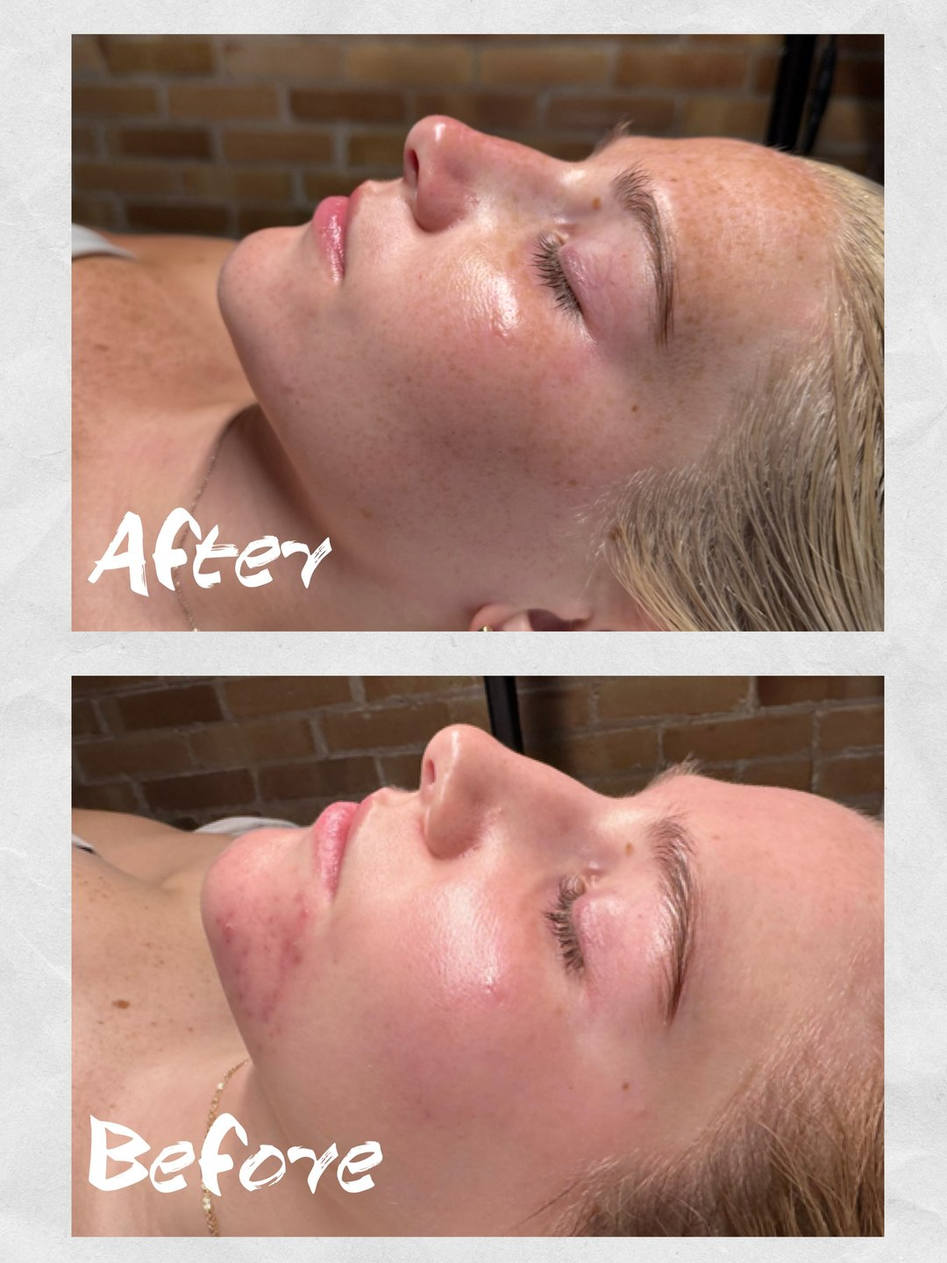
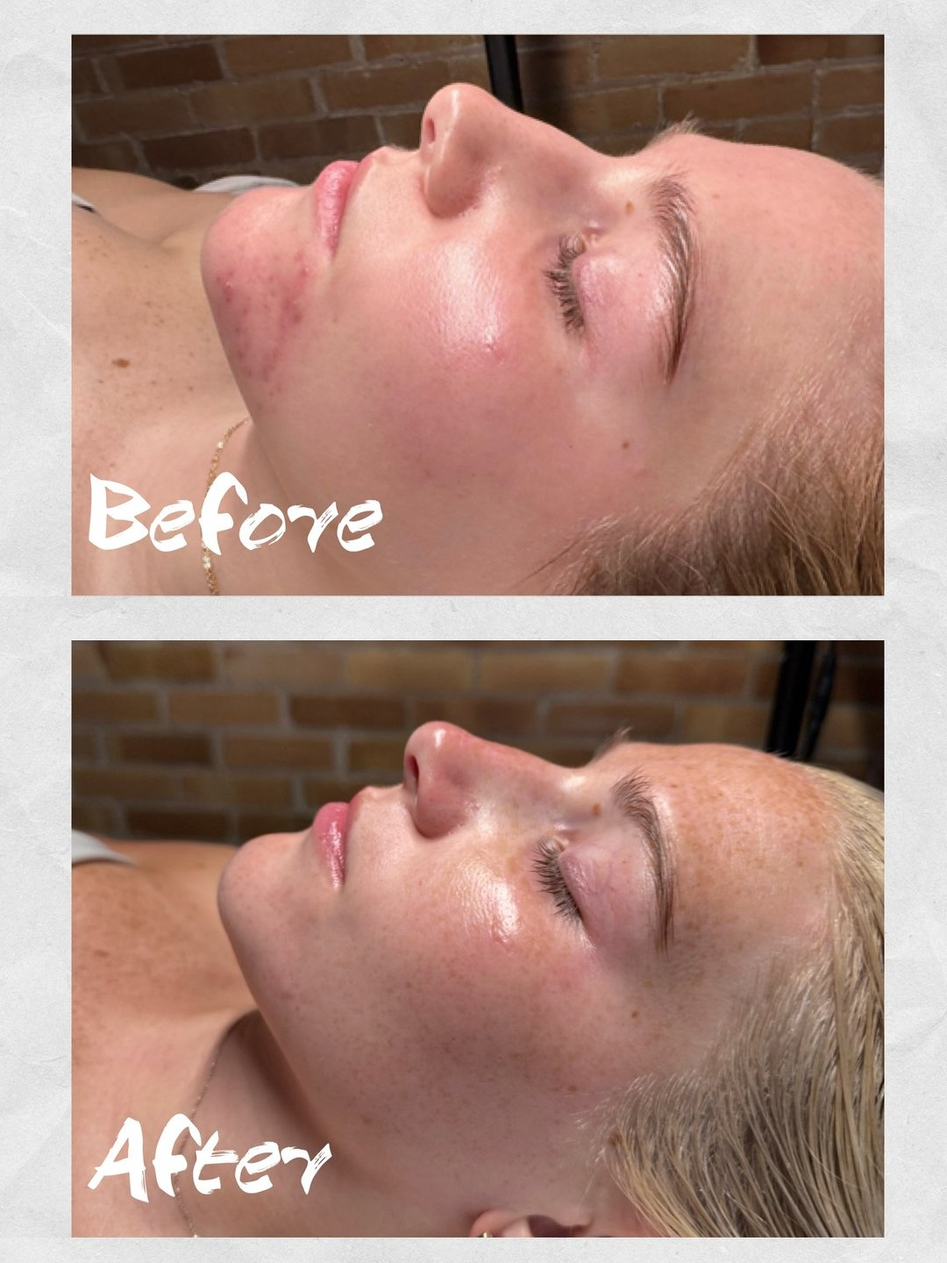
v2: put Before above After on the acne results photo

diff --git a/v2/facial-treatments.html b/v2/facial-treatments.html
@@ -28,7 +28,7 @@
 </div></section><section class="menu-s"><div class="wrap pmenu"><div class="pcol"><div class="pstick mask"><div class="pf on" data-f="0"><img src="../img/face-closeup.jpg" srcset="../img/face-closeup-480.webp 480w, ../img/face-closeup-800.webp 800w, ../img/face-closeup-1200.webp 1200w, ../img/face-closeup-1600.webp 1600w, ../img/face-closeup-2000.webp 2000w" sizes="(max-width:980px) 1px, 40vw" width="2000" height="957" alt="Close-up of freshly exfoliated skin" decoding="async" loading="eager" style="object-position:50% 40%"></div><div class="pf" data-f="1"><img src="../img/facial-brush.jpg" srcset="../img/facial-brush-480.webp 480w, ../img/facial-brush-800.webp 800w, ../img/facial-brush-1200.webp 1200w, ../img/facial-brush-1556.webp 1556w" sizes="(max-width:980px) 1px, 40vw" width="1556" height="2067" alt="Mask brush and bowl" decoding="async" loading="eager" style="object-position:50% 35%"></div><div class="pf" data-f="2"><img src="../img/wrist.jpg" srcset="../img/wrist-480.webp 480w, ../img/wrist-800.webp 800w, ../img/wrist-1200.webp 1200w, ../img/wrist-1556.webp 1556w" sizes="(max-width:980px) 1px, 40vw" width="1556" height="2067" alt="Moisturizer swatch on a wrist" decoding="async" loading="eager" style="object-position:50% 50%"></div><div class="pf" data-f="3"><img src="../img/products-arch.jpg" srcset="../img/products-arch-480.webp 480w, ../img/products-arch-800.webp 800w, ../img/products-arch-1200.webp 1200w, ../img/products-arch-1555.webp 1555w" sizes="(max-width:980px) 1px, 40vw" width="1555" height="2208" alt="Face Reality skincare products" decoding="async" loading="eager" style="object-position:50% 50%"></div><div class="pf" data-f="4"><img src="../img/products-held.jpg" srcset="../img/products-held-480.webp 480w, ../img/products-held-800.webp 800w, ../img/products-held-1200.webp 1200w, ../img/products-held-1600.webp 1600w, ../img/products-held-2000.webp 2000w" sizes="(max-width:980px) 1px, 40vw" width="2000" height="1196" alt="Madison holding Face Reality products" decoding="async" loading="eager" style="object-position:50% 35%"></div></div></div><div class="plist"><div class="prow" data-f="0"><div class="pi mask zoom"><img src="../img/face-closeup.jpg" srcset="../img/face-closeup-480.webp 480w, ../img/face-closeup-800.webp 800w, ../img/face-closeup-1200.webp 1200w, ../img/face-closeup-1600.webp 1600w, ../img/face-closeup-2000.webp 2000w" sizes="100vw" width="2000" height="957" alt="Close-up of freshly exfoliated skin" decoding="async" loading="lazy" style="object-position:50% 40%"></div><div class="item"><div class="row"><h3>Dermaplane</h3><i></i><b>$85</b></div><p>Reveal smoother, brighter skin by gently removing dead skin and peach fuzz, allowing for better product absorption and flawless makeup application.</p><p class="best"><span>Best for:</span> Dull skin, rough texture, peach fuzz, brighter complexion, smooth makeup application</p></div></div><div class="prow" data-f="1"><div class="pi mask zoom"><img src="../img/facial-brush.jpg" srcset="../img/facial-brush-480.webp 480w, ../img/facial-brush-800.webp 800w, ../img/facial-brush-1200.webp 1200w, ../img/facial-brush-1556.webp 1556w" sizes="100vw" width="1556" height="2067" alt="Mask brush and bowl" decoding="async" loading="lazy" style="object-position:50% 35%"></div><div class="item"><div class="row"><h3>Chemical Peel</h3><i></i><b>$85</b></div><p>A customized exfoliating treatment that helps improve skin tone, texture, acne, pigmentation, and the appearance of fine lines by encouraging healthy skin renewal.</p><p class="best"><span>Best for:</span> Acne, hyperpigmentation, fine lines, sun damage, uneven texture, acne scars</p></div></div><div class="prow" data-f="2"><div class="pi mask zoom"><img src="../img/wrist.jpg" srcset="../img/wrist-480.webp 480w, ../img/wrist-800.webp 800w, ../img/wrist-1200.webp 1200w, ../img/wrist-1556.webp 1556w" sizes="100vw" width="1556" height="2067" alt="Moisturizer swatch on a wrist" decoding="async" loading="lazy" style="object-position:50% 50%"></div><div class="item"><div class="row"><h3>Essential Hydrating Facial</h3><i></i><b>$90</b></div><p>Restore moisture and revitalize your skin with this relaxing facial designed to nourish, hydrate, and leave your complexion glowing.</p><p class="best"><span>Best for:</span> Dryness, dehydration, dull skin, sensitive skin, healthy glow</p></div></div><div class="prow" data-f="3"><div class="pi mask zoom"><img src="../img/products-arch.jpg" srcset="../img/products-arch-480.webp 480w, ../img/products-arch-800.webp 800w, ../img/products-arch-1200.webp 1200w, ../img/products-arch-1555.webp 1555w" sizes="100vw" width="1555" height="2208" alt="Face Reality skincare products" decoding="async" loading="lazy" style="object-position:50% 50%"></div><div class="item"><div class="row"><h3>Acne Facial</h3><i></i><b>$85</b></div><p>A corrective acne treatment designed to calm inflammation, clear congestion, and support healthier skin while providing a personalized treatment plan and home-care recommendations.</p><p class="best"><span>Best for:</span> Acne-prone skin, active breakouts, congestion, oily skin, acne prevention</p></div></div><div class="prow" data-f="4"><div class="pi mask zoom"><img src="../img/products-held.jpg" srcset="../img/products-held-480.webp 480w, ../img/products-held-800.webp 800w, ../img/products-held-1200.webp 1200w, ../img/products-held-1600.webp 1600w, ../img/products-held-2000.webp 2000w" sizes="100vw" width="2000" height="1196" alt="Madison holding Face Reality products" decoding="async" loading="lazy" style="object-position:50% 35%"></div><div class="item"><div class="row"><h3>Microneedling</h3><i></i><b>$300</b></div><p>Stimulate your skin’s natural collagen production to improve texture, soften fine lines, minimize scars, and create a firmer, more youthful complexion.</p><p class="best"><span>Best for:</span> Fine lines, wrinkles, acne scars, enlarged pores, uneven texture, skin rejuvenation</p></div></div><div class="prow" data-f="4"><div class="item"><div class="row"><h3>Add On: Neck</h3><i></i><b>$50</b></div></div></div></div></div></section><section class="finance dark" id="finance"><div class="wrap"><div data-reveal="left"><h2>Pay over time</h2><p class="lede" style="margin-top:8px">No hard credit checks. 0% APR options through Cherry.</p></div><a class="btn light" data-reveal="right" href="https://pay.withcherry.com/elevated-aesthetics-wi">Apply with Cherry</a></div></section><section id="care" class="care-s"><div class="wrap"><div class="head"><h2 data-reveal="left">Pre and post care</h2><p class="lede" data-reveal="right">Friendly tips for happy skin and long-lasting results from your favorite esthetician.</p></div><div class="care2" data-stagger><div class="cg"><h3>Dermaplane</h3><div class="ccs n1"><div class="cc"><h4>Why you’ll be loving it</h4><p>Gently removes peach fuzz and dead skin cells for smoother, brighter skin. Enjoy flawless makeup application and enhanced skincare absorption.</p></div></div></div><div class="cg"><h3>Chemical Peel</h3><div class="ccs n2"><div class="cc"><h4>Before your peel</h4><p>Stop using retinols and active acne products 5 days before your appointment. Two days before, switch to a gentle skincare routine to prepare your skin.</p></div><div class="cc"><h4>After your peel</h4><p>Wear SPF daily, avoid direct sun, and keep your skincare routine simple. Don’t pick or peel flaking skin, and avoid waxing, excessive heat, and strenuous exercise for 5–7 days. Stay hydrated to support healing.</p></div></div></div><div class="cg"><h3>Acne-Focused Facial</h3><div class="ccs n1"><div class="cc"><h4>Why you’ll be loving it</h4><p>Designed to target breakouts with customized treatment, extractions, and a personalized skincare plan for healthier, clearer skin.</p></div></div></div></div><p class="guide" data-reveal><a href="faq.html"><span>Read the full pre and post care guide</span><i aria-hidden="true">→</i></a></p></div></section><section class="ig-s res-s" aria-labelledby="ig-h"><div class="wrap">
 <div class="res-head"><div data-reveal="left"><h2 id="ig-h">Results from the studio, on Instagram.</h2></div>
 <a class="btn ghost" data-reveal="right" href="https://www.instagram.com/mh.elevated.aesthetics/">@mh.elevated.aesthetics</a></div>
-<div class="res-mix n3" data-stagger><figure class="res-card photo" style="--ar:0.75"><div class="res-media"><img src="media/Day5goat5sJ.jpg" srcset="media/Day5goat5sJ.webp" width="1080" height="1440" alt="Acne treatment before and after at Elevated Aesthetics in Oshkosh, WI" loading="lazy" decoding="async"></div><figcaption><span>Acne Before and After</span><a class="link" href="https://www.instagram.com/p/Day5goat5sJ/" target="_blank" rel="noopener">View on Instagram</a></figcaption></figure><figure class="res-card vid" style="--ar:0.5625"><div class="res-media"><video autoplay muted loop playsinline preload="none" poster="media/Dbyywbmgjqy.jpg" width="720" height="1280" aria-label="Steam facial treatment at Elevated Aesthetics in Oshkosh, WI"><source src="media/Dbyywbmgjqy.mp4" type="video/mp4"></video><button class="res-play" type="button" aria-label="Play video"></button></div><figcaption><span>Steam Facial</span><a class="link" href="https://www.instagram.com/p/Dbyywbmgjqy/" target="_blank" rel="noopener">View on Instagram</a></figcaption></figure><figure class="res-card vid" style="--ar:0.5625"><div class="res-media"><video autoplay muted loop playsinline preload="none" poster="media/DaAtlv9AVaZ.jpg" width="720" height="1280" aria-label="Facial treatment at Elevated Aesthetics in Oshkosh, WI"><source src="media/DaAtlv9AVaZ.mp4" type="video/mp4"></video><button class="res-play" type="button" aria-label="Play video"></button></div><figcaption><span>Facial</span><a class="link" href="https://www.instagram.com/p/DaAtlv9AVaZ/" target="_blank" rel="noopener">View on Instagram</a></figcaption></figure></div>
+<div class="res-mix n3" data-stagger><figure class="res-card photo" style="--ar:0.75"><div class="res-media"><img src="media/Day5goat5sJ.jpg?v=2" srcset="media/Day5goat5sJ.webp?v=2" width="1080" height="1440" alt="Acne treatment before and after at Elevated Aesthetics in Oshkosh, WI" loading="lazy" decoding="async"></div><figcaption><span>Acne Before and After</span><a class="link" href="https://www.instagram.com/p/Day5goat5sJ/" target="_blank" rel="noopener">View on Instagram</a></figcaption></figure><figure class="res-card vid" style="--ar:0.5625"><div class="res-media"><video autoplay muted loop playsinline preload="none" poster="media/Dbyywbmgjqy.jpg" width="720" height="1280" aria-label="Steam facial treatment at Elevated Aesthetics in Oshkosh, WI"><source src="media/Dbyywbmgjqy.mp4" type="video/mp4"></video><button class="res-play" type="button" aria-label="Play video"></button></div><figcaption><span>Steam Facial</span><a class="link" href="https://www.instagram.com/p/Dbyywbmgjqy/" target="_blank" rel="noopener">View on Instagram</a></figcaption></figure><figure class="res-card vid" style="--ar:0.5625"><div class="res-media"><video autoplay muted loop playsinline preload="none" poster="media/DaAtlv9AVaZ.jpg" width="720" height="1280" aria-label="Facial treatment at Elevated Aesthetics in Oshkosh, WI"><source src="media/DaAtlv9AVaZ.mp4" type="video/mp4"></video><button class="res-play" type="button" aria-label="Play video"></button></div><figcaption><span>Facial</span><a class="link" href="https://www.instagram.com/p/DaAtlv9AVaZ/" target="_blank" rel="noopener">View on Instagram</a></figcaption></figure></div>
 </div></section><section class="stone cta"><div class="wrap"><h2 data-reveal="left">Ready for your glow-up?</h2><a class="btn" data-reveal="right" href="https://efkrt.myaestheticrecord.com/online-booking">Book a facial</a></div></section></main><footer><div class="wrap"><div class="grid" data-stagger>
 <div><img class="lg" src="../img/logo-white.png" width="612" height="272" alt="Elevated Aesthetics by Madison Herbeck" loading="lazy"><p style="margin-top:20px;max-width:46ch">136 Jackson Street, Oshkosh, WI 54901. Inside Bella Babe, second floor. When you arrive, have a seat in the Bella Babe waiting area and complete your intake forms if you haven’t already.</p></div>
 <div><h4>Treatments</h4><ul><li><a class="link" href="facial-treatments.html">Facial Treatments</a></li><li><a class="link" href="lash-and-brow.html">Lash and Brow</a></li><li><a class="link" href="waxing.html">Waxing</a></li><li><a class="link" href="injectables.html">Injectables</a></li><li><a class="link" href="ipl.html">IPL Treatments</a></li><li><a class="link" href="laser-hair-removal.html">Laser Hair Removal</a></li><li><a class="link" href="rf-microneedling.html">RF Microneedling</a></li></ul></div>

diff --git a/v2/injectables.html b/v2/injectables.html
@@ -28,7 +28,7 @@
 </div></section><section class="menu-s"><div class="wrap pmenu"><div class="pcol"><div class="pstick mask"><div class="pf on" data-f="0"><img src="../img/face-closeup.jpg" srcset="../img/face-closeup-480.webp 480w, ../img/face-closeup-800.webp 800w, ../img/face-closeup-1200.webp 1200w, ../img/face-closeup-1600.webp 1600w, ../img/face-closeup-2000.webp 2000w" sizes="(max-width:980px) 1px, 40vw" width="2000" height="957" alt="Close-up of smooth, glowing skin" decoding="async" loading="eager" style="object-position:50% 35%"></div><div class="pf" data-f="1"><img src="../img/madison-tray.jpg" srcset="../img/madison-tray-480.webp 480w, ../img/madison-tray-800.webp 800w, ../img/madison-tray-1200.webp 1200w, ../img/madison-tray-1600.webp 1600w" sizes="(max-width:980px) 1px, 40vw" width="1600" height="2400" alt="Madison holding a tray of skincare products" decoding="async" loading="eager" style="object-position:50% 25%"></div></div></div><div class="plist"><div class="prow" data-f="0"><div class="pi mask zoom"><img src="../img/face-closeup.jpg" srcset="../img/face-closeup-480.webp 480w, ../img/face-closeup-800.webp 800w, ../img/face-closeup-1200.webp 1200w, ../img/face-closeup-1600.webp 1600w, ../img/face-closeup-2000.webp 2000w" sizes="100vw" width="2000" height="957" alt="Close-up of smooth, glowing skin" decoding="async" loading="lazy" style="object-position:50% 35%"></div><div class="item"><div class="row"><h3>Jeuveau Wrinkle Relaxer</h3><i></i><b>$12 / unit</b></div><p>Smooth fine lines and wrinkles with natural-looking results. Ideal for forehead, crow’s feet, frown lines, chin, and more. A quick treatment planned around your expressions, with results that typically last about 3–4 months.</p></div></div><div class="prow" data-f="0"><div class="item"><div class="row"><h3>Lip Flip</h3><i></i><b>$65</b></div></div></div><div class="prow" data-f="1"><div class="pi mask zoom"><img src="../img/madison-tray.jpg" srcset="../img/madison-tray-480.webp 480w, ../img/madison-tray-800.webp 800w, ../img/madison-tray-1200.webp 1200w, ../img/madison-tray-1600.webp 1600w" sizes="100vw" width="1600" height="2400" alt="Madison holding a tray of skincare products" decoding="async" loading="lazy" style="object-position:50% 25%"></div><div class="item"><div class="row"><h3>Dermal Filler, Half Syringe</h3><i></i><b>$375</b></div><p>Restore volume, define facial features, and enhance lips, cheeks, chin, or jawline with customized hyaluronic acid filler. Treatment is tailored to your features, whether you want a subtle refresh or more definition.</p><p class="best"><span>Best for:</span> Volume and structure</p></div></div><div class="prow" data-f="1"><div class="item"><div class="row"><h3>Dermal Filler, Full Syringe</h3><i></i><b>$550</b></div><p>Restore volume, define facial features, and enhance lips, cheeks, chin, or jawline with customized hyaluronic acid filler. Treatment is tailored to your features, whether you want a subtle refresh or more definition.</p><p class="best"><span>Best for:</span> Volume and structure</p></div></div></div></div></section><section class="finance dark" id="finance"><div class="wrap"><div data-reveal="left"><h2>Pay over time</h2><p class="lede" style="margin-top:8px">No hard credit checks. 0% APR options through Cherry.</p></div><a class="btn light" data-reveal="right" href="https://pay.withcherry.com/elevated-aesthetics-wi">Apply with Cherry</a></div></section><section id="care" class="care-s"><div class="wrap"><div class="head"><h2 data-reveal="left">Pre and post care</h2><p class="lede" data-reveal="right">Friendly tips for happy skin and long-lasting results from your favorite esthetician.</p></div><div class="care2" data-stagger><div class="cg"><h3>Wrinkle Relaxer</h3><div class="ccs n2"><div class="cc"><h4>Before your appointment</h4><p>Arrive with a clean face and avoid alcohol, ibuprofen, aspirin, fish oil, and other blood-thinning supplements for 24 hours if approved by your healthcare provider.</p></div><div class="cc"><h4>After your appointment</h4><p>Stay upright for 4 hours and avoid rubbing the treated area. Skip strenuous exercise, saunas, and facials for 24 hours. Full results develop in 10–14 days.</p></div></div></div><div class="cg"><h3>Dermal Filler</h3><div class="ccs n2"><div class="cc"><h4>Before your appointment</h4><p>Stay well hydrated and avoid alcohol, ibuprofen, aspirin, fish oil, and other blood-thinning supplements for 24 hours if approved by your healthcare provider to help minimize bruising.</p></div><div class="cc"><h4>After your appointment</h4><p>Expect mild swelling and bruising for a few days. Avoid strenuous exercise, excessive heat, and pressure on the treated area for 24–48 hours. Final results are typically seen once swelling resolves.</p></div></div></div></div><p class="guide" data-reveal><a href="faq.html"><span>Read the full pre and post care guide</span><i aria-hidden="true">→</i></a></p></div></section><section class="ig-s res-s" aria-labelledby="ig-h"><div class="wrap">
 <div class="res-head"><div data-reveal="left"><h2 id="ig-h">Results from the studio, on Instagram.</h2></div>
 <a class="btn ghost" data-reveal="right" href="https://www.instagram.com/mh.elevated.aesthetics/">@mh.elevated.aesthetics</a></div>
-<div class="res-mix n3" data-stagger><figure class="res-card vid" style="--ar:0.5625"><div class="res-media"><video autoplay muted loop playsinline preload="none" poster="media/DZ00_5AAKAZ.jpg" width="720" height="1280" aria-label="Lip filler from bare lips to a full syringe in Oshkosh, WI"><source src="media/DZ00_5AAKAZ.mp4" type="video/mp4"></video><button class="res-play" type="button" aria-label="Play video"></button></div><figcaption><span>Lip Filler</span><a class="link" href="https://www.instagram.com/p/DZ00_5AAKAZ/" target="_blank" rel="noopener">View on Instagram</a></figcaption></figure><figure class="res-card photo" style="--ar:0.75"><div class="res-media"><img src="media/Da8fxqhgGhR.jpg" srcset="media/Da8fxqhgGhR.webp" width="1080" height="1440" alt="Chin filler before and after in Oshkosh, WI" loading="lazy" decoding="async"></div><figcaption><span>Chin Filler</span><a class="link" href="https://www.instagram.com/p/Da8fxqhgGhR/" target="_blank" rel="noopener">View on Instagram</a></figcaption></figure><figure class="res-card photo" style="--ar:0.8"><div class="res-media"><img src="media/DblWKe2lnBZ--2.jpg" srcset="media/DblWKe2lnBZ--2.webp" width="1080" height="1350" alt="Cheek filler before and after in Oshkosh, WI" loading="lazy" decoding="async"></div><figcaption><span>Cheek Filler</span><a class="link" href="https://www.instagram.com/p/DblWKe2lnBZ/" target="_blank" rel="noopener">View on Instagram</a></figcaption></figure></div>
+<div class="res-mix n3" data-stagger><figure class="res-card vid" style="--ar:0.5625"><div class="res-media"><video autoplay muted loop playsinline preload="none" poster="media/DZ00_5AAKAZ.jpg" width="720" height="1280" aria-label="Lip filler from bare lips to a full syringe in Oshkosh, WI"><source src="media/DZ00_5AAKAZ.mp4" type="video/mp4"></video><button class="res-play" type="button" aria-label="Play video"></button></div><figcaption><span>Lip Filler</span><a class="link" href="https://www.instagram.com/p/DZ00_5AAKAZ/" target="_blank" rel="noopener">View on Instagram</a></figcaption></figure><figure class="res-card photo" style="--ar:0.75"><div class="res-media"><img src="media/Da8fxqhgGhR.jpg?v=2" srcset="media/Da8fxqhgGhR.webp?v=2" width="1080" height="1440" alt="Chin filler before and after in Oshkosh, WI" loading="lazy" decoding="async"></div><figcaption><span>Chin Filler</span><a class="link" href="https://www.instagram.com/p/Da8fxqhgGhR/" target="_blank" rel="noopener">View on Instagram</a></figcaption></figure><figure class="res-card photo" style="--ar:0.8"><div class="res-media"><img src="media/DblWKe2lnBZ--2.jpg?v=2" srcset="media/DblWKe2lnBZ--2.webp?v=2" width="1080" height="1350" alt="Cheek filler before and after in Oshkosh, WI" loading="lazy" decoding="async"></div><figcaption><span>Cheek Filler</span><a class="link" href="https://www.instagram.com/p/DblWKe2lnBZ/" target="_blank" rel="noopener">View on Instagram</a></figcaption></figure></div>
 </div></section><section class="stone cta"><div class="wrap"><h2 data-reveal="left">Ready for your glow-up?</h2><a class="btn" data-reveal="right" href="https://efkrt.myaestheticrecord.com/online-booking">Book injectables</a></div></section></main><footer><div class="wrap"><div class="grid" data-stagger>
 <div><img class="lg" src="../img/logo-white.png" width="612" height="272" alt="Elevated Aesthetics by Madison Herbeck" loading="lazy"><p style="margin-top:20px;max-width:46ch">136 Jackson Street, Oshkosh, WI 54901. Inside Bella Babe, second floor. When you arrive, have a seat in the Bella Babe waiting area and complete your intake forms if you haven’t already.</p></div>
 <div><h4>Treatments</h4><ul><li><a class="link" href="facial-treatments.html">Facial Treatments</a></li><li><a class="link" href="lash-and-brow.html">Lash and Brow</a></li><li><a class="link" href="waxing.html">Waxing</a></li><li><a class="link" href="injectables.html">Injectables</a></li><li><a class="link" href="ipl.html">IPL Treatments</a></li><li><a class="link" href="laser-hair-removal.html">Laser Hair Removal</a></li><li><a class="link" href="rf-microneedling.html">RF Microneedling</a></li></ul></div>

diff --git a/v2/index.html b/v2/index.html
@@ -48,7 +48,7 @@
 <section class="ig-s res-s" aria-labelledby="ig-h"><div class="wrap">
 <div class="res-head"><div data-reveal="left"><h2 id="ig-h">Results from the studio, on Instagram.</h2></div>
 <a class="btn ghost" data-reveal="right" href="https://www.instagram.com/mh.elevated.aesthetics/">@mh.elevated.aesthetics</a></div>
-<div class="res-photos n3"><div class="res-photo-row n3" data-stagger><figure class="res-card photo" style="--ar:0.75"><div class="res-media"><img src="media/Day5goat5sJ.jpg" srcset="media/Day5goat5sJ.webp" width="1080" height="1440" alt="Acne treatment before and after at Elevated Aesthetics in Oshkosh, WI" loading="lazy" decoding="async"></div><figcaption><span>Acne Before and After</span><a class="link" href="https://www.instagram.com/p/Day5goat5sJ/" target="_blank" rel="noopener">View on Instagram</a></figcaption></figure><figure class="res-card photo" style="--ar:0.75"><div class="res-media"><img src="media/Da8fxqhgGhR.jpg" srcset="media/Da8fxqhgGhR.webp" width="1080" height="1440" alt="Chin filler before and after in Oshkosh, WI" loading="lazy" decoding="async"></div><figcaption><span>Chin Filler</span><a class="link" href="https://www.instagram.com/p/Da8fxqhgGhR/" target="_blank" rel="noopener">View on Instagram</a></figcaption></figure><figure class="res-card photo" style="--ar:0.8095"><div class="res-media"><img src="media/De93j9hgw8H.jpg" srcset="media/De93j9hgw8H.webp" width="1088" height="1344" alt="Before and after laser hair removal, after one treatment, in Oshkosh, WI" loading="lazy" decoding="async"></div><figcaption><span>Laser Hair Removal</span><a class="link" href="https://www.instagram.com/p/De93j9hgw8H/" target="_blank" rel="noopener">View on Instagram</a></figcaption></figure></div></div><div class="res-vids n3" data-stagger><figure class="res-card vid" style="--ar:0.5625"><div class="res-media"><video autoplay muted loop playsinline preload="none" poster="media/Dbyywbmgjqy.jpg" width="720" height="1280" aria-label="Steam facial treatment at Elevated Aesthetics in Oshkosh, WI"><source src="media/Dbyywbmgjqy.mp4" type="video/mp4"></video><button class="res-play" type="button" aria-label="Play video"></button></div><figcaption><span>Steam Facial</span><a class="link" href="https://www.instagram.com/p/Dbyywbmgjqy/" target="_blank" rel="noopener">View on Instagram</a></figcaption></figure><figure class="res-card vid" style="--ar:0.75"><div class="res-media"><video autoplay muted loop playsinline preload="none" poster="media/DM0JtZNM9fv.jpg" width="720" height="960" aria-label="Brow lamination results at Elevated Aesthetics in Oshkosh, WI"><source src="media/DM0JtZNM9fv.mp4" type="video/mp4"></video><button class="res-play" type="button" aria-label="Play video"></button></div><figcaption><span>Brow Lamination</span><a class="link" href="https://www.instagram.com/p/DM0JtZNM9fv/" target="_blank" rel="noopener">View on Instagram</a></figcaption></figure><figure class="res-card vid" style="--ar:0.5625"><div class="res-media"><video autoplay muted loop playsinline preload="none" poster="media/DZ00_5AAKAZ.jpg" width="720" height="1280" aria-label="Lip filler from bare lips to a full syringe in Oshkosh, WI"><source src="media/DZ00_5AAKAZ.mp4" type="video/mp4"></video><button class="res-play" type="button" aria-label="Play video"></button></div><figcaption><span>Lip Filler</span><a class="link" href="https://www.instagram.com/p/DZ00_5AAKAZ/" target="_blank" rel="noopener">View on Instagram</a></figcaption></figure></div>
+<div class="res-photos n3"><div class="res-photo-row n3" data-stagger><figure class="res-card photo" style="--ar:0.75"><div class="res-media"><img src="media/Day5goat5sJ.jpg?v=2" srcset="media/Day5goat5sJ.webp?v=2" width="1080" height="1440" alt="Acne treatment before and after at Elevated Aesthetics in Oshkosh, WI" loading="lazy" decoding="async"></div><figcaption><span>Acne Before and After</span><a class="link" href="https://www.instagram.com/p/Day5goat5sJ/" target="_blank" rel="noopener">View on Instagram</a></figcaption></figure><figure class="res-card photo" style="--ar:0.75"><div class="res-media"><img src="media/Da8fxqhgGhR.jpg?v=2" srcset="media/Da8fxqhgGhR.webp?v=2" width="1080" height="1440" alt="Chin filler before and after in Oshkosh, WI" loading="lazy" decoding="async"></div><figcaption><span>Chin Filler</span><a class="link" href="https://www.instagram.com/p/Da8fxqhgGhR/" target="_blank" rel="noopener">View on Instagram</a></figcaption></figure><figure class="res-card photo" style="--ar:0.8095"><div class="res-media"><img src="media/De93j9hgw8H.jpg?v=2" srcset="media/De93j9hgw8H.webp?v=2" width="1088" height="1344" alt="Before and after laser hair removal, after one treatment, in Oshkosh, WI" loading="lazy" decoding="async"></div><figcaption><span>Laser Hair Removal</span><a class="link" href="https://www.instagram.com/p/De93j9hgw8H/" target="_blank" rel="noopener">View on Instagram</a></figcaption></figure></div></div><div class="res-vids n3" data-stagger><figure class="res-card vid" style="--ar:0.5625"><div class="res-media"><video autoplay muted loop playsinline preload="none" poster="media/Dbyywbmgjqy.jpg" width="720" height="1280" aria-label="Steam facial treatment at Elevated Aesthetics in Oshkosh, WI"><source src="media/Dbyywbmgjqy.mp4" type="video/mp4"></video><button class="res-play" type="button" aria-label="Play video"></button></div><figcaption><span>Steam Facial</span><a class="link" href="https://www.instagram.com/p/Dbyywbmgjqy/" target="_blank" rel="noopener">View on Instagram</a></figcaption></figure><figure class="res-card vid" style="--ar:0.75"><div class="res-media"><video autoplay muted loop playsinline preload="none" poster="media/DM0JtZNM9fv.jpg" width="720" height="960" aria-label="Brow lamination results at Elevated Aesthetics in Oshkosh, WI"><source src="media/DM0JtZNM9fv.mp4" type="video/mp4"></video><button class="res-play" type="button" aria-label="Play video"></button></div><figcaption><span>Brow Lamination</span><a class="link" href="https://www.instagram.com/p/DM0JtZNM9fv/" target="_blank" rel="noopener">View on Instagram</a></figcaption></figure><figure class="res-card vid" style="--ar:0.5625"><div class="res-media"><video autoplay muted loop playsinline preload="none" poster="media/DZ00_5AAKAZ.jpg" width="720" height="1280" aria-label="Lip filler from bare lips to a full syringe in Oshkosh, WI"><source src="media/DZ00_5AAKAZ.mp4" type="video/mp4"></video><button class="res-play" type="button" aria-label="Play video"></button></div><figcaption><span>Lip Filler</span><a class="link" href="https://www.instagram.com/p/DZ00_5AAKAZ/" target="_blank" rel="noopener">View on Instagram</a></figcaption></figure></div>
 </div></section>
 <section class="consult" id="book"><div class="wrap">
 <div data-reveal="left"><h2>Book your visit</h2><p class="lede">Book online in a few minutes, or send your details and we’ll be in touch. If there is a day or time you need, contact us. We are happy to accommodate.</p>

diff --git a/v2/rf-microneedling.html b/v2/rf-microneedling.html
@@ -41,7 +41,7 @@
 <section class="ig-s res-s" aria-labelledby="ig-h"><div class="wrap">
 <div class="res-head"><div data-reveal="left"><h2 id="ig-h">Results from the studio, on Instagram.</h2></div>
 <a class="btn ghost" data-reveal="right" href="https://www.instagram.com/mh.elevated.aesthetics/">@mh.elevated.aesthetics</a></div>
-<div class="res-mix n3" data-stagger><figure class="res-card photo" style="--ar:0.5625"><div class="res-media"><img src="media/DeFkJgXTbUt.jpg" srcset="media/DeFkJgXTbUt.webp" width="1080" height="1920" alt="InMode RF microneedling treatment at Elevated Aesthetics in Oshkosh, WI" loading="lazy" decoding="async"></div><figcaption><span>RF Microneedling</span><a class="link" href="https://www.instagram.com/p/DeFkJgXTbUt/" target="_blank" rel="noopener">View on Instagram</a></figcaption></figure><figure class="res-card photo" style="--ar:0.75"><div class="res-media"><img src="media/DYC54MpFqCY.jpg" srcset="media/DYC54MpFqCY.webp" width="1290" height="1720" alt="Microneedling after result at Elevated Aesthetics in Oshkosh, WI" loading="lazy" decoding="async"></div><figcaption><span>Microneedling Result</span><a class="link" href="https://www.instagram.com/p/DYC54MpFqCY/" target="_blank" rel="noopener">View on Instagram</a></figcaption></figure><figure class="res-card photo" style="--ar:0.5625"><div class="res-media"><img src="media/DWeZ4ARgN36.jpg" srcset="media/DWeZ4ARgN36.webp" width="720" height="1280" alt="Microneedling treatment at Elevated Aesthetics in Oshkosh, WI" loading="lazy" decoding="async"></div><figcaption><span>Microneedling</span><a class="link" href="https://www.instagram.com/p/DWeZ4ARgN36/" target="_blank" rel="noopener">View on Instagram</a></figcaption></figure></div>
+<div class="res-mix n3" data-stagger><figure class="res-card photo" style="--ar:0.5625"><div class="res-media"><img src="media/DeFkJgXTbUt.jpg?v=2" srcset="media/DeFkJgXTbUt.webp?v=2" width="1080" height="1920" alt="InMode RF microneedling treatment at Elevated Aesthetics in Oshkosh, WI" loading="lazy" decoding="async"></div><figcaption><span>RF Microneedling</span><a class="link" href="https://www.instagram.com/p/DeFkJgXTbUt/" target="_blank" rel="noopener">View on Instagram</a></figcaption></figure><figure class="res-card photo" style="--ar:0.75"><div class="res-media"><img src="media/DYC54MpFqCY.jpg?v=2" srcset="media/DYC54MpFqCY.webp?v=2" width="1290" height="1720" alt="Microneedling after result at Elevated Aesthetics in Oshkosh, WI" loading="lazy" decoding="async"></div><figcaption><span>Microneedling Result</span><a class="link" href="https://www.instagram.com/p/DYC54MpFqCY/" target="_blank" rel="noopener">View on Instagram</a></figcaption></figure><figure class="res-card photo" style="--ar:0.5625"><div class="res-media"><img src="media/DWeZ4ARgN36.jpg?v=2" srcset="media/DWeZ4ARgN36.webp?v=2" width="720" height="1280" alt="Microneedling treatment at Elevated Aesthetics in Oshkosh, WI" loading="lazy" decoding="async"></div><figcaption><span>Microneedling</span><a class="link" href="https://www.instagram.com/p/DWeZ4ARgN36/" target="_blank" rel="noopener">View on Instagram</a></figcaption></figure></div>
 </div></section><section class="stone cta"><div class="wrap"><h2 data-reveal="left">Ready for your glow-up?</h2><a class="btn" data-reveal="right" href="https://efkrt.myaestheticrecord.com/online-booking">Book RF microneedling</a></div></section></main><footer><div class="wrap"><div class="grid" data-stagger>
 <div><img class="lg" src="../img/logo-white.png" width="612" height="272" alt="Elevated Aesthetics by Madison Herbeck" loading="lazy"><p style="margin-top:20px;max-width:46ch">136 Jackson Street, Oshkosh, WI 54901. Inside Bella Babe, second floor. When you arrive, have a seat in the Bella Babe waiting area and complete your intake forms if you haven’t already.</p></div>
 <div><h4>Treatments</h4><ul><li><a class="link" href="facial-treatments.html">Facial Treatments</a></li><li><a class="link" href="lash-and-brow.html">Lash and Brow</a></li><li><a class="link" href="waxing.html">Waxing</a></li><li><a class="link" href="injectables.html">Injectables</a></li><li><a class="link" href="ipl.html">IPL Treatments</a></li><li><a class="link" href="laser-hair-removal.html">Laser Hair Removal</a></li><li><a class="link" href="rf-microneedling.html">RF Microneedling</a></li></ul></div>

diff --git a/v2/laser-hair-removal.html b/v2/laser-hair-removal.html
@@ -30,7 +30,7 @@
 </div></section><section class="finance dark" id="finance"><div class="wrap"><div data-reveal="left"><h2>Pay over time</h2><p class="lede" style="margin-top:8px">No hard credit checks. 0% APR options through Cherry.</p></div><a class="btn light" data-reveal="right" href="https://pay.withcherry.com/elevated-aesthetics-wi">Apply with Cherry</a></div></section><section class="ig-s res-s" aria-labelledby="ig-h"><div class="wrap">
 <div class="res-head"><div data-reveal="left"><h2 id="ig-h">Results from the studio, on Instagram.</h2></div>
 <a class="btn ghost" data-reveal="right" href="https://www.instagram.com/mh.elevated.aesthetics/">@mh.elevated.aesthetics</a></div>
-<div class="res-mix n2" data-stagger><figure class="res-card photo" style="--ar:0.8095"><div class="res-media"><img src="media/De93j9hgw8H.jpg" srcset="media/De93j9hgw8H.webp" width="1088" height="1344" alt="Before and after laser hair removal, after one treatment, in Oshkosh, WI" loading="lazy" decoding="async"></div><figcaption><span>Laser Hair Removal</span><a class="link" href="https://www.instagram.com/p/De93j9hgw8H/" target="_blank" rel="noopener">View on Instagram</a></figcaption></figure><figure class="res-card photo" style="--ar:0.75"><div class="res-media"><img src="media/De48M01Sajm.jpg" srcset="media/De48M01Sajm.webp" width="1230" height="1640" alt="Laser hair removal treatment on a client&#x27;s underarm at Elevated Aesthetics in Oshkosh, WI" loading="lazy" decoding="async"></div><figcaption><span>Underarm Laser</span><a class="link" href="https://www.instagram.com/p/De48M01Sajm/" target="_blank" rel="noopener">View on Instagram</a></figcaption></figure></div>
+<div class="res-mix n2" data-stagger><figure class="res-card photo" style="--ar:0.8095"><div class="res-media"><img src="media/De93j9hgw8H.jpg?v=2" srcset="media/De93j9hgw8H.webp?v=2" width="1088" height="1344" alt="Before and after laser hair removal, after one treatment, in Oshkosh, WI" loading="lazy" decoding="async"></div><figcaption><span>Laser Hair Removal</span><a class="link" href="https://www.instagram.com/p/De93j9hgw8H/" target="_blank" rel="noopener">View on Instagram</a></figcaption></figure><figure class="res-card photo" style="--ar:0.75"><div class="res-media"><img src="media/De48M01Sajm.jpg?v=2" srcset="media/De48M01Sajm.webp?v=2" width="1230" height="1640" alt="Laser hair removal treatment on a client&#x27;s underarm at Elevated Aesthetics in Oshkosh, WI" loading="lazy" decoding="async"></div><figcaption><span>Underarm Laser</span><a class="link" href="https://www.instagram.com/p/De48M01Sajm/" target="_blank" rel="noopener">View on Instagram</a></figcaption></figure></div>
 </div></section><section class="stone cta"><div class="wrap"><h2 data-reveal="left">Ready for your glow-up?</h2><a class="btn" data-reveal="right" href="https://efkrt.myaestheticrecord.com/online-booking">Book laser</a></div></section></main><footer><div class="wrap"><div class="grid" data-stagger>
 <div><img class="lg" src="../img/logo-white.png" width="612" height="272" alt="Elevated Aesthetics by Madison Herbeck" loading="lazy"><p style="margin-top:20px;max-width:46ch">136 Jackson Street, Oshkosh, WI 54901. Inside Bella Babe, second floor. When you arrive, have a seat in the Bella Babe waiting area and complete your intake forms if you haven’t already.</p></div>
 <div><h4>Treatments</h4><ul><li><a class="link" href="facial-treatments.html">Facial Treatments</a></li><li><a class="link" href="lash-and-brow.html">Lash and Brow</a></li><li><a class="link" href="waxing.html">Waxing</a></li><li><a class="link" href="injectables.html">Injectables</a></li><li><a class="link" href="ipl.html">IPL Treatments</a></li><li><a class="link" href="laser-hair-removal.html">Laser Hair Removal</a></li><li><a class="link" href="rf-microneedling.html">RF Microneedling</a></li></ul></div>
